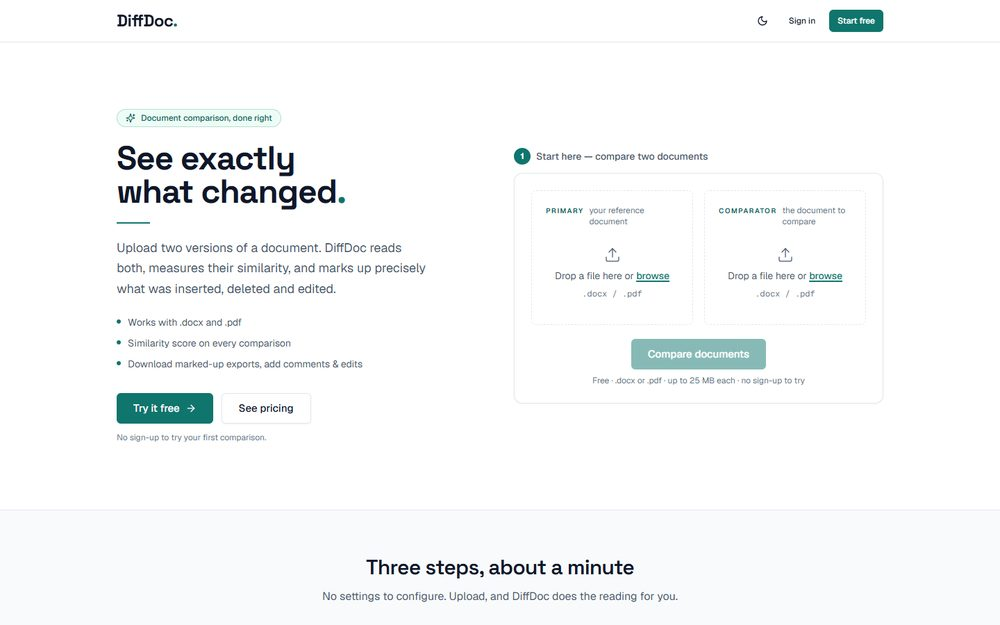
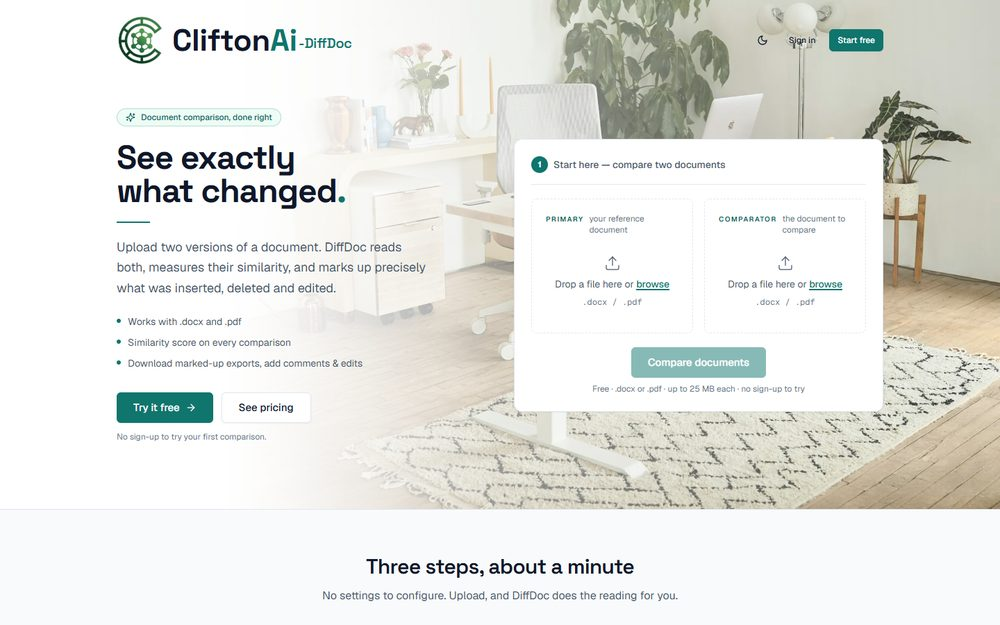
Update screenshots and copy for WPcontentflowsuite, DiffDoc, and DealMaker
All three products shipped real redesigns since the last capture.
Re-captured screenshots from the live homepages and rewrote the
descriptions for WPcontentflowsuite and DealMaker to match their new
positioning (four-tools-in-one for WPcontentflowsuite; full
source-to-close automation for DealMaker). DiffDoc's copy was still
accurate, so only its screenshot changed.

diff --git a/src/app/page.tsx b/src/app/page.tsx
@@ -17,7 +17,7 @@ const products: Product[] = [
     name: "CliftonAi-WPcontentflowsuite",
     tagline: "Content operations",
     description:
-      "Your WordPress site and content calendar shouldn't be two different jobs. CliftonAi-WPcontentflowsuite is a WordPress theme and plugin suite that plans, drafts, and publishes on-brand content inside your site. You get one content flow, not a theme, a plugin, and a separate AI tool duct-taped together.",
+      "Most WordPress sites run four disconnected tools that never share context. CliftonAi-WPcontentflowsuite pairs a plain-language-editable theme with an AI content generator, RSS automation, and a feedback tool that flags and fixes issues, all in one plugin. You get one settings hub, not four logins that don't talk to each other.",
     href: "https://flow.cliftonai.co",
     subdomain: "flow.cliftonai.co",
     status: "live",
@@ -94,7 +94,7 @@ const products: Product[] = [
     name: "CliftonAi-DealMaker",
     tagline: "Deal pipeline for small business",
     description:
-      "Your leads are scattered across five inboxes and a spreadsheet nobody trusts. CliftonAi-DealMaker sources leads, scores them against your ideal customer, drafts outreach in your voice, and reminds you before a follow-up slips. You get a pipeline built for how your business actually sells, not a bloated enterprise CRM.",
+      "Your leads are scattered across five inboxes and a spreadsheet nobody trusts. CliftonAi-DealMaker sources leads, drafts outreach, captures replies, books meetings, and tracks every deal to close, automatically, in a pipeline you fully customize. You get one automated flow, not five disconnected tools stitched together.",
     href: "https://dealmaker.cliftonai.co",
     subdomain: "dealmaker.cliftonai.co",
     status: "live",